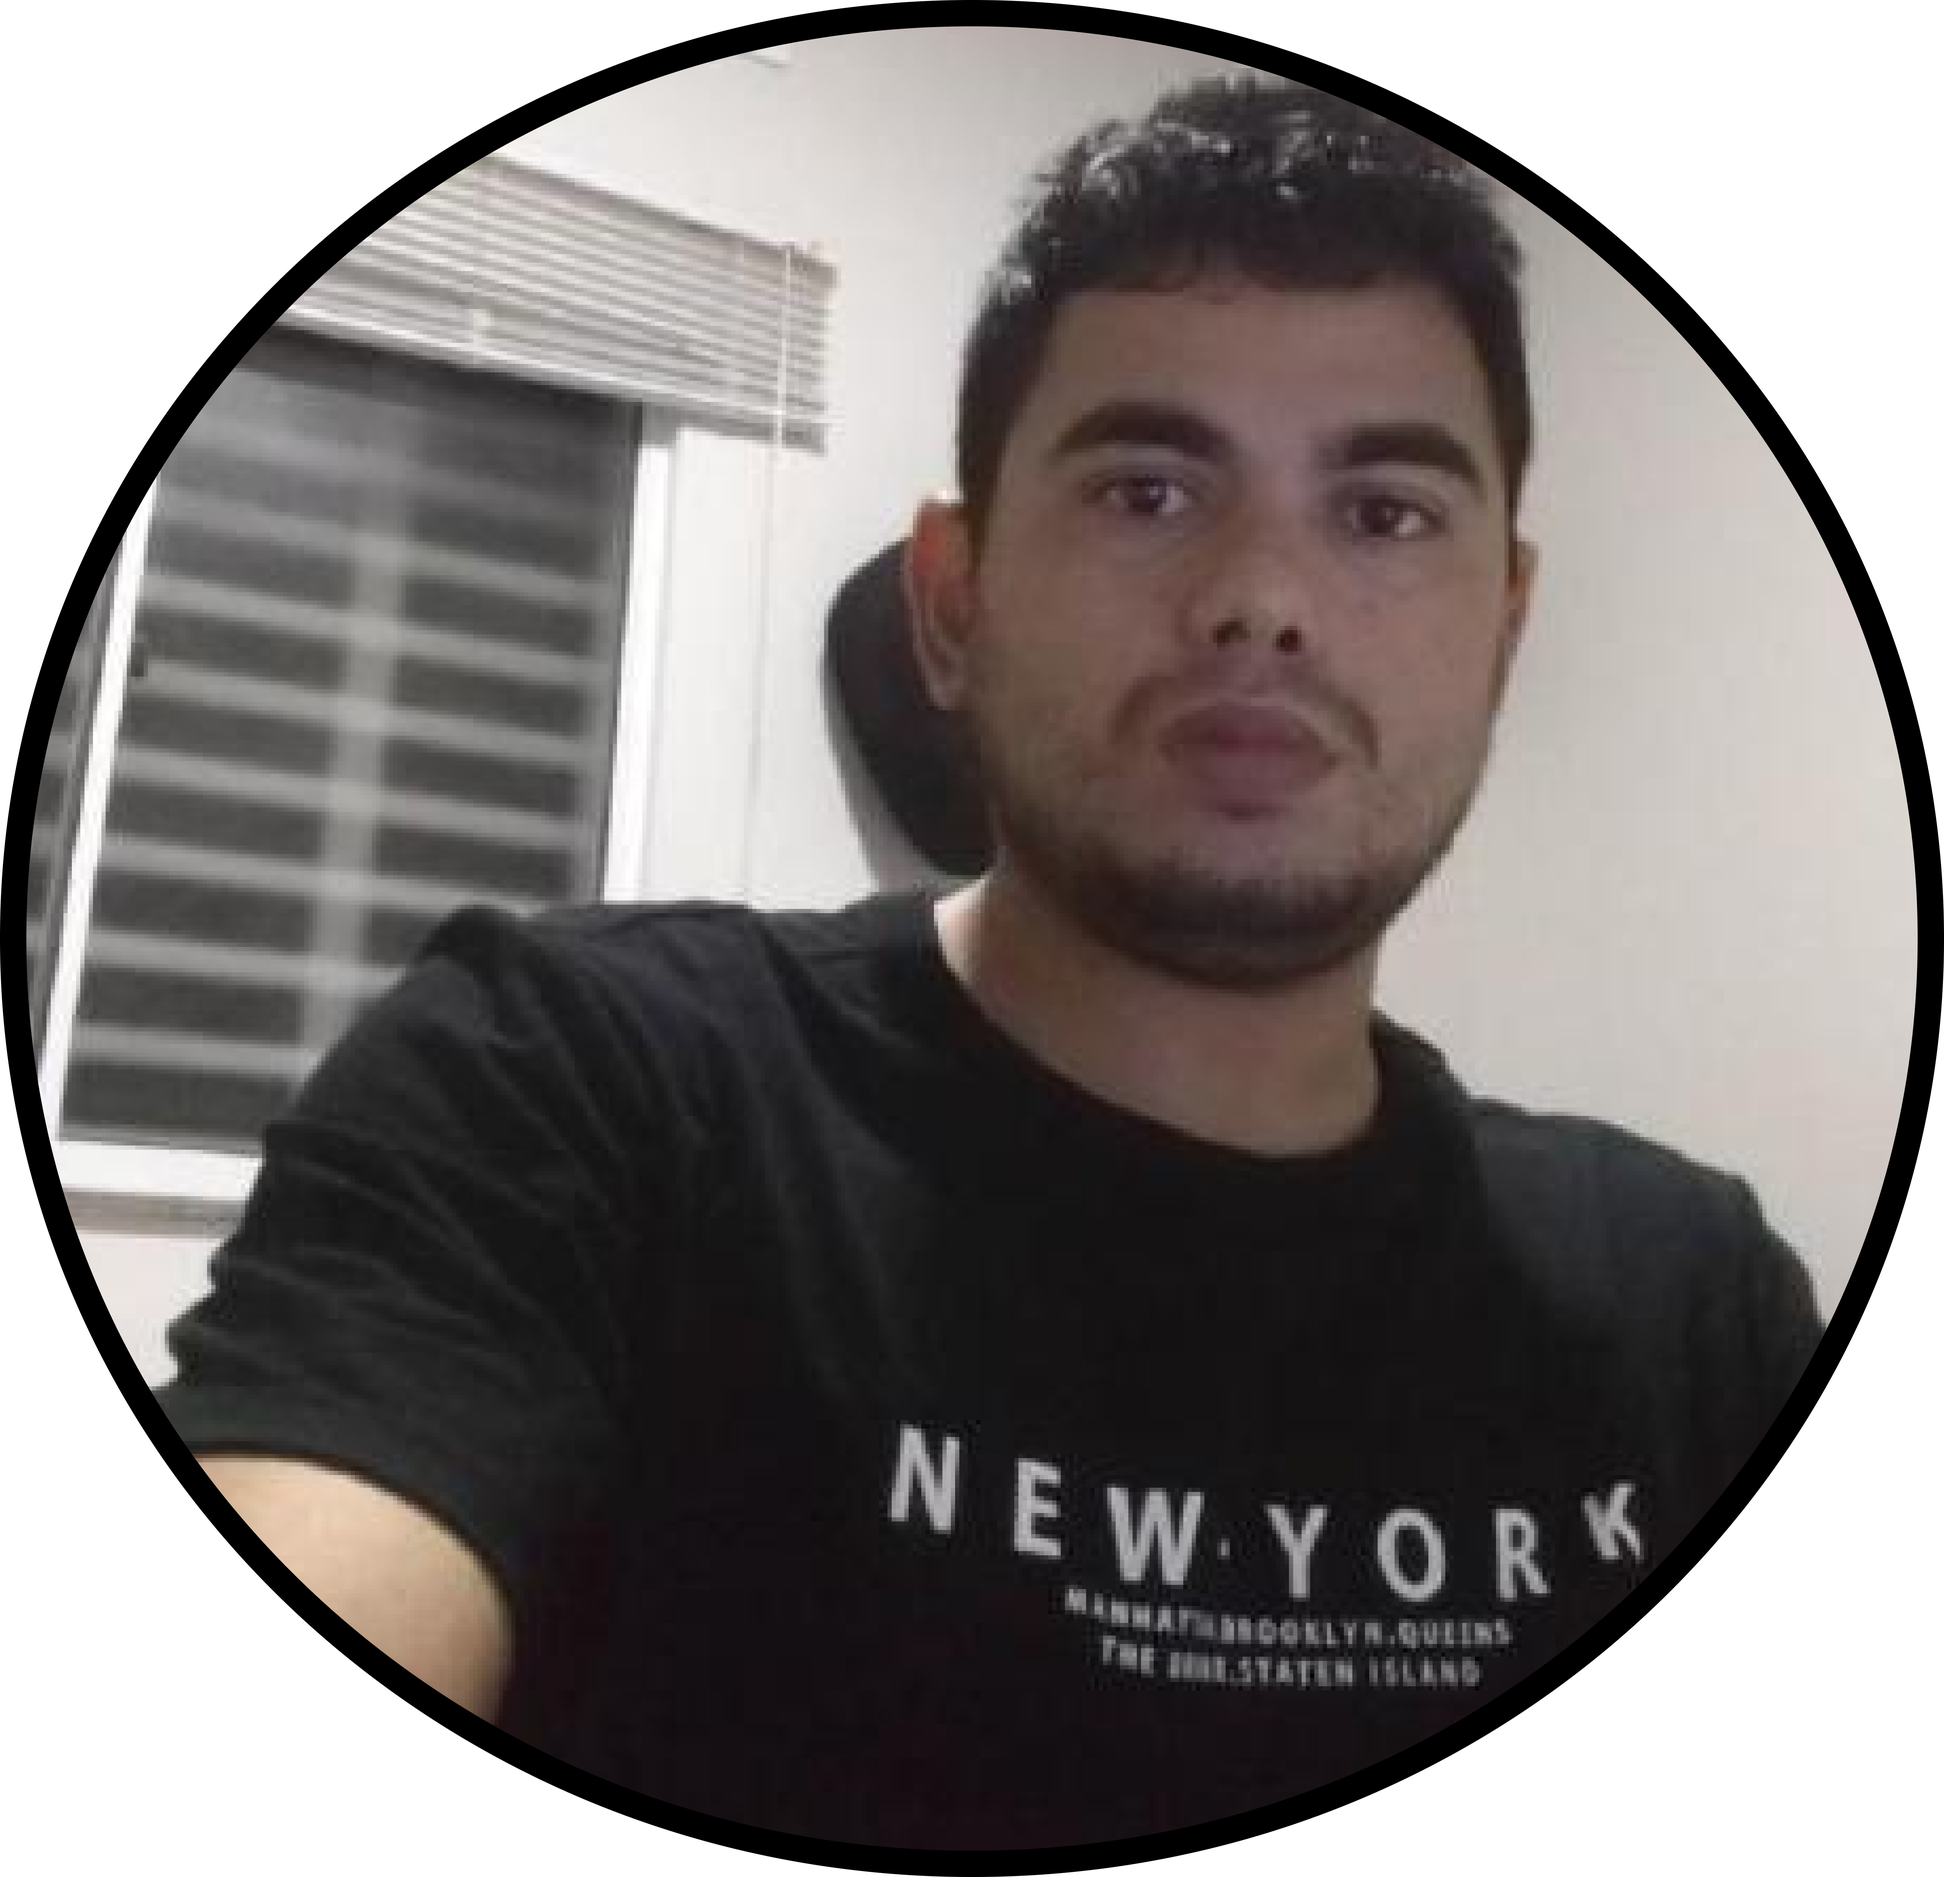
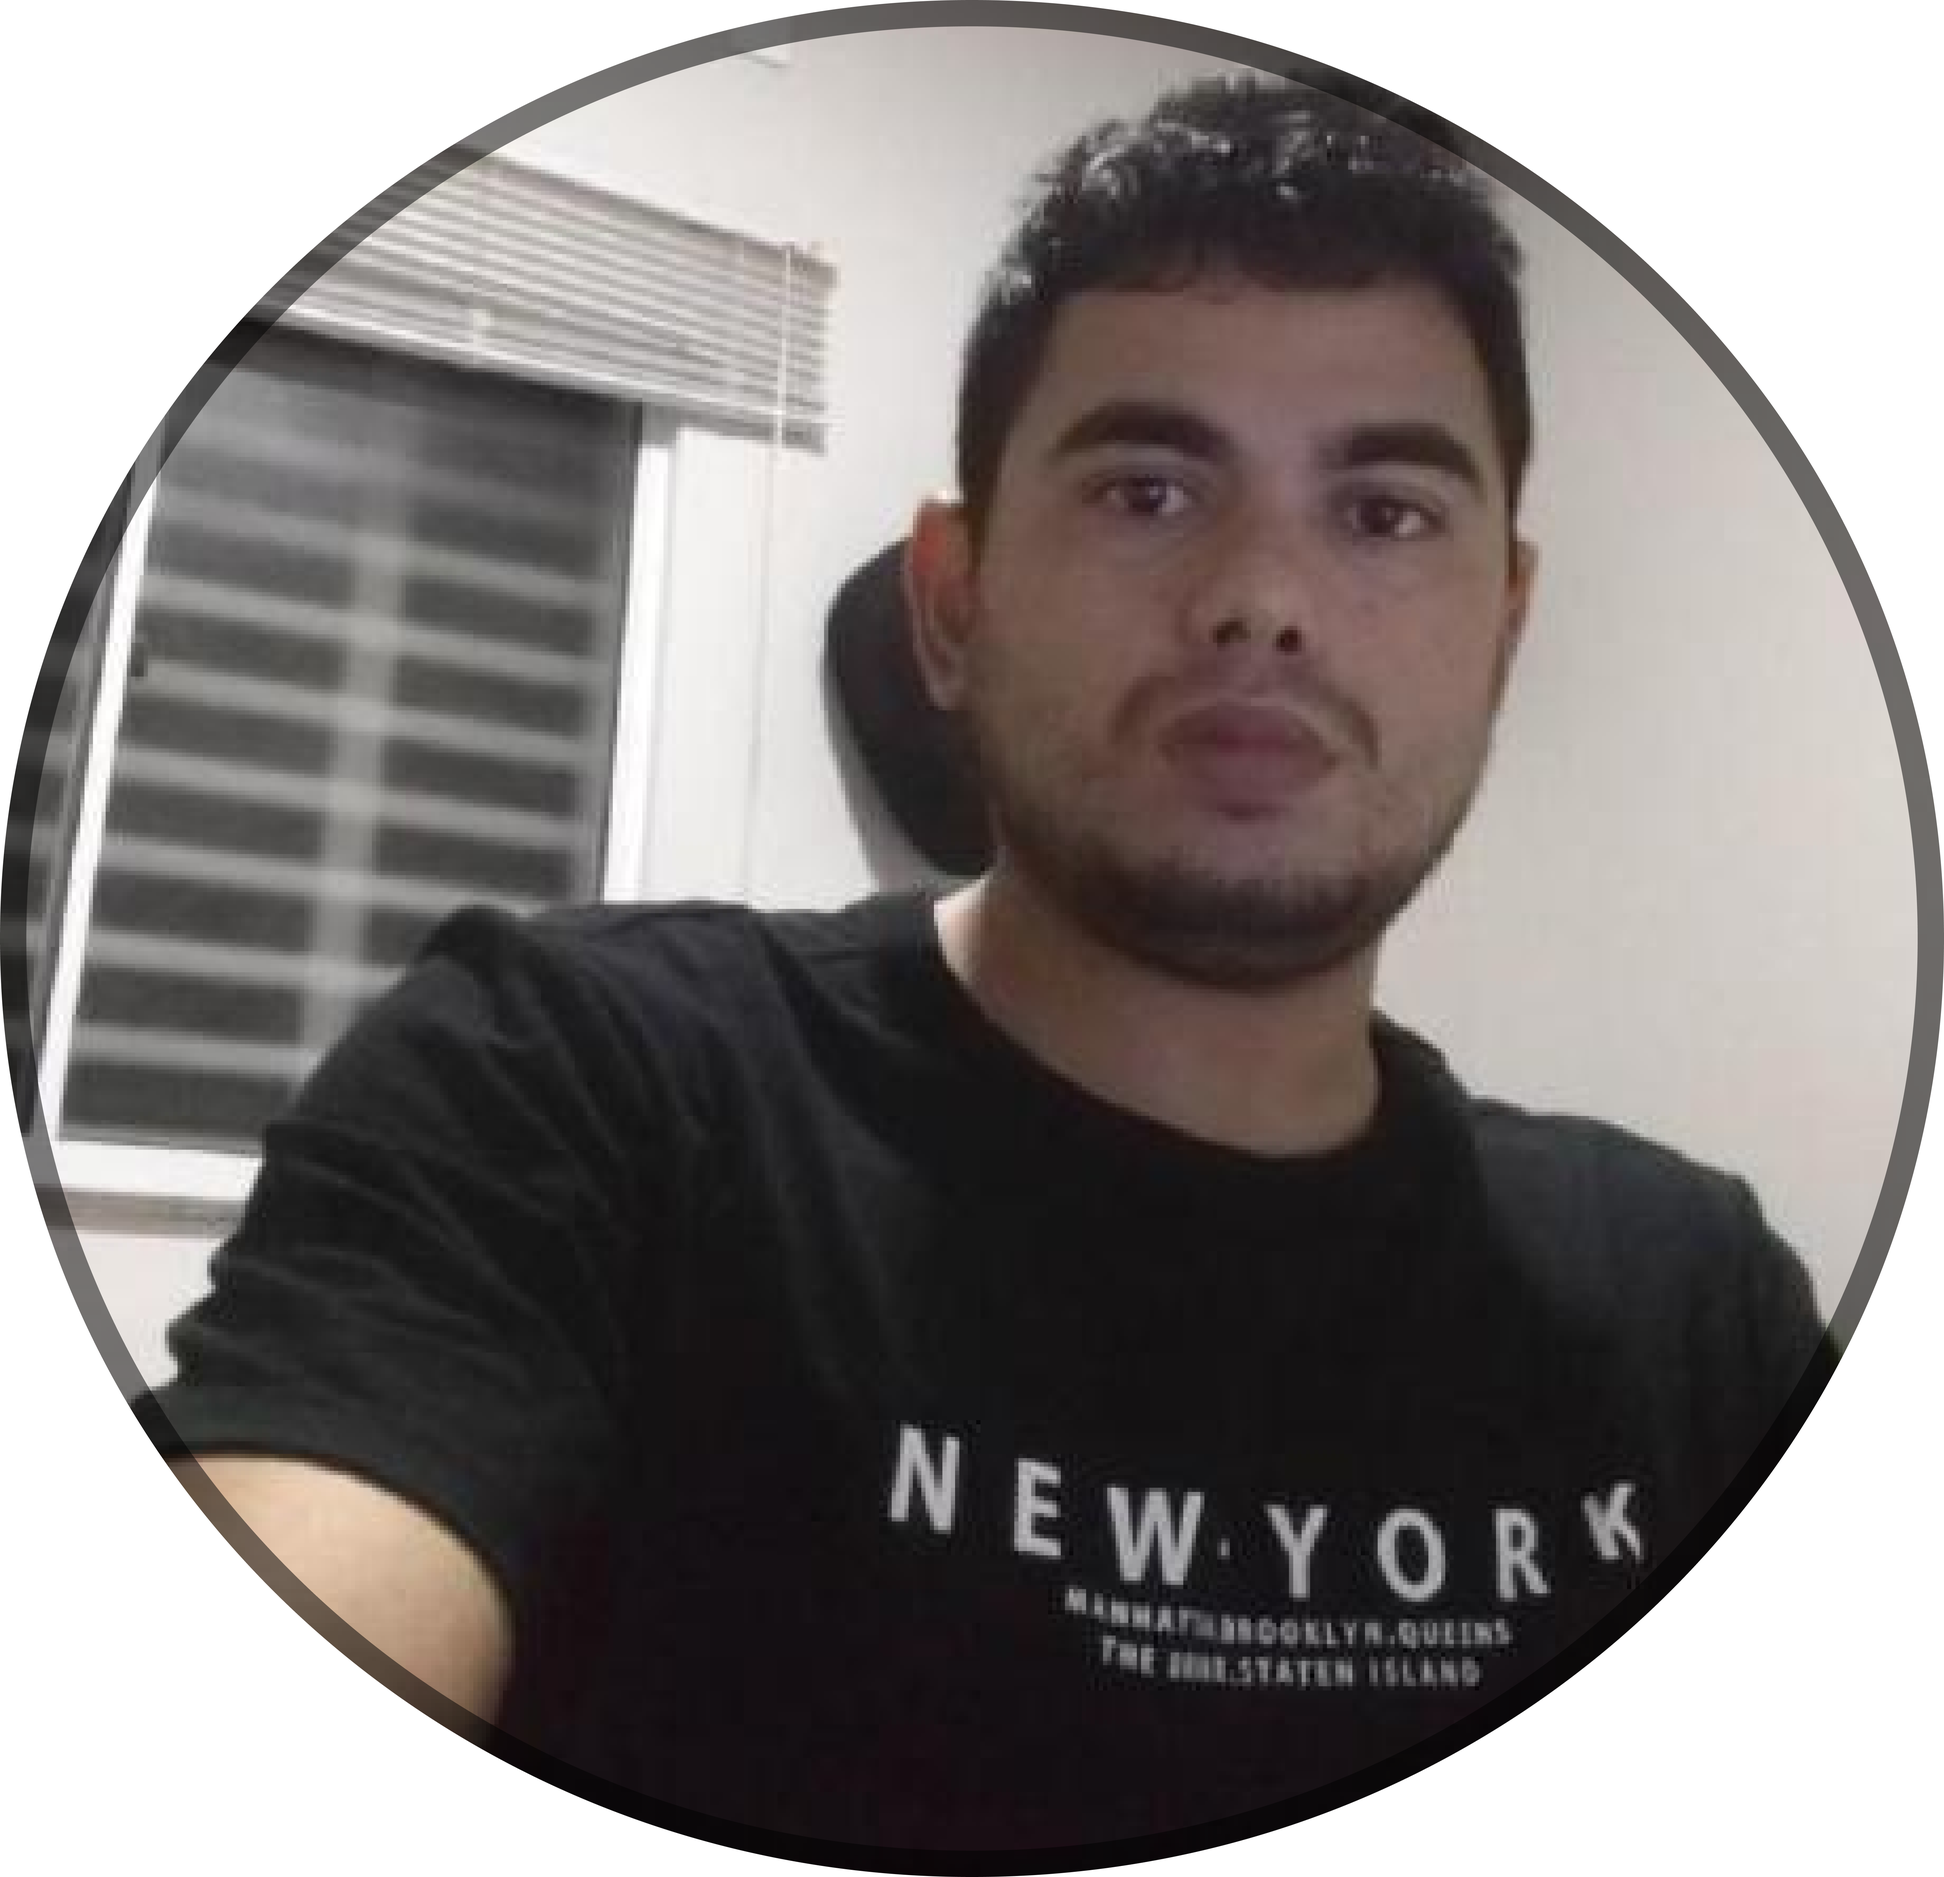
Alteracao imagem README

diff --git a/README.md b/README.md
@@ -19,7 +19,7 @@ Programa exclusivo e gratuito, promovido pela Rocketseat para ensino de tecnolog
 <br>
 
 <p align="center">
-  <img alt="projeto DevLinks" src=".github/preview.jpg" width="100%">
+  <img alt="projeto DevLinks" src=".github/preview.png" width="100%">
 </p>
 
 ## 🚀 Tecnologias
